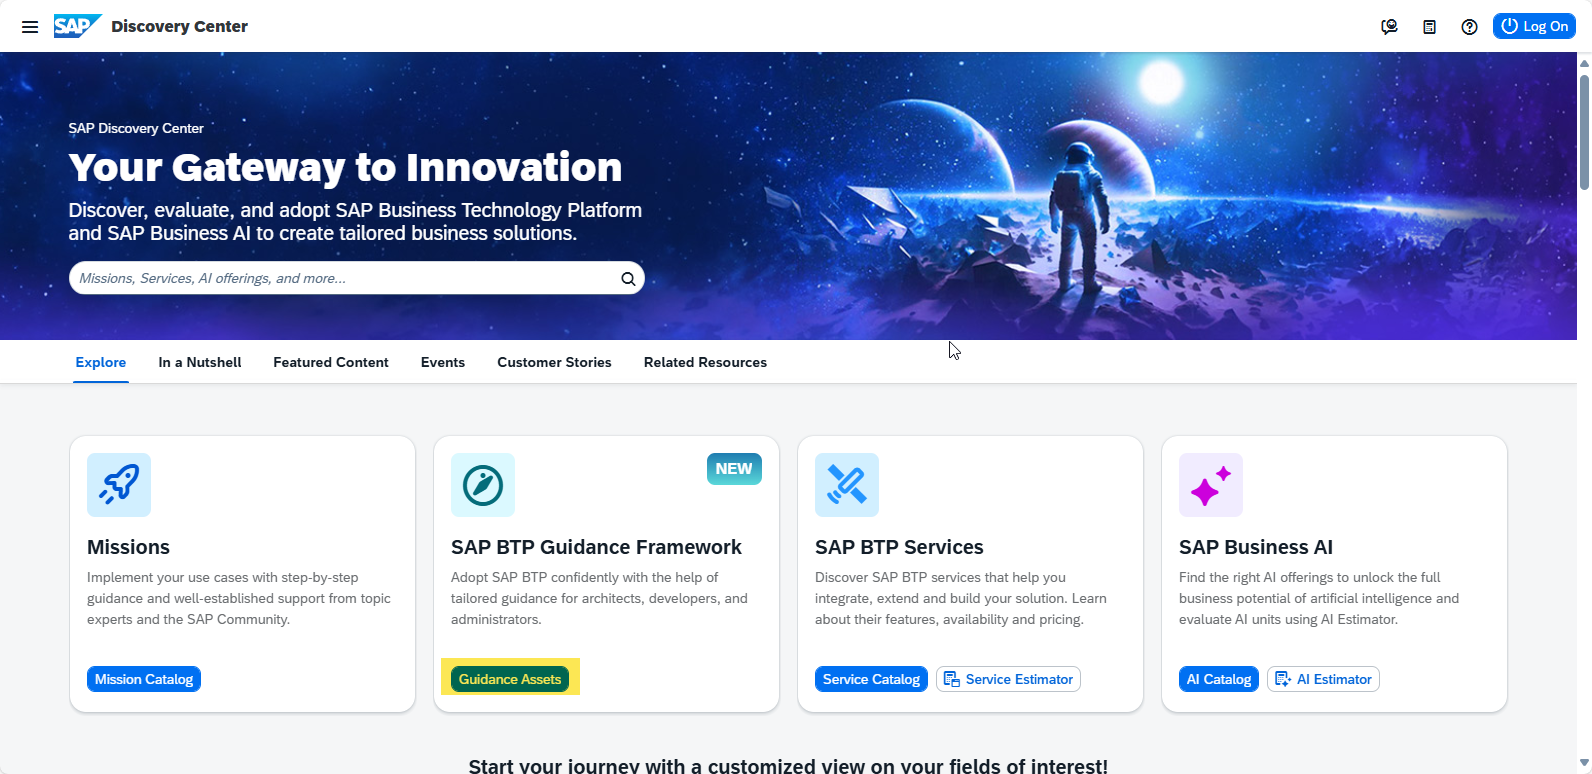
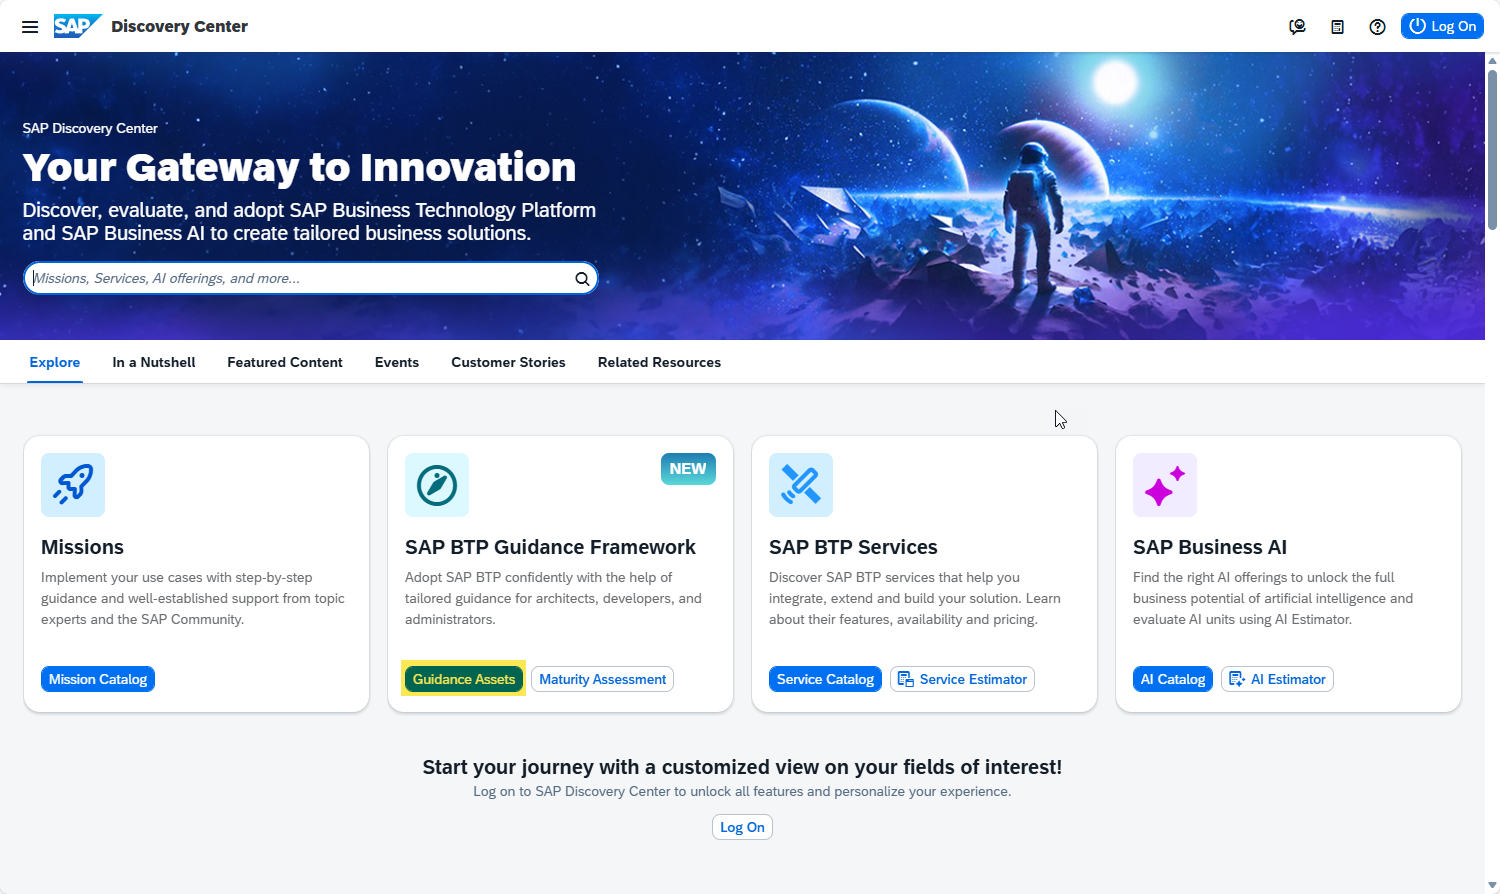
updated dc and guidance screenshots

diff --git a/exercises/ex0/README.md b/exercises/ex0/README.md
@@ -32,16 +32,15 @@ The best starting point for any information on SAP BTP and SAP Business AI is th
    ![Navigate to Guidance framework](./images/2.png)<br>
 
 3. Let's start by looking at the SAP BTP Guidance Framework. <br/>
-   Press the **SAP BTP Guidance Framework** tile.
+   Press the **Guidance Assets** button.
 
 ## Step 2: The SAP BTP Guidance Framework
 
 The SAP BTP Guidance Framework provides a central entry point to all kinds of guidance documents for different roles like architects, developers, or administrators.<br/>
 
-![Navigate to Admin Guide](./images/3.png)<br>
-
 4. Have a look at the different sections of the Guidance Framework and the links to get an overview of what kind of methodologies, information, and guidelines can be found in this repository.<br/>
 5. Press the link to the **SAP BTP Administrator's Guide**.
+   ![Navigate to Admin Guide](./images/3.png)<br>
 
 ## Step 3: The SAP BTP Admin Guide
 
